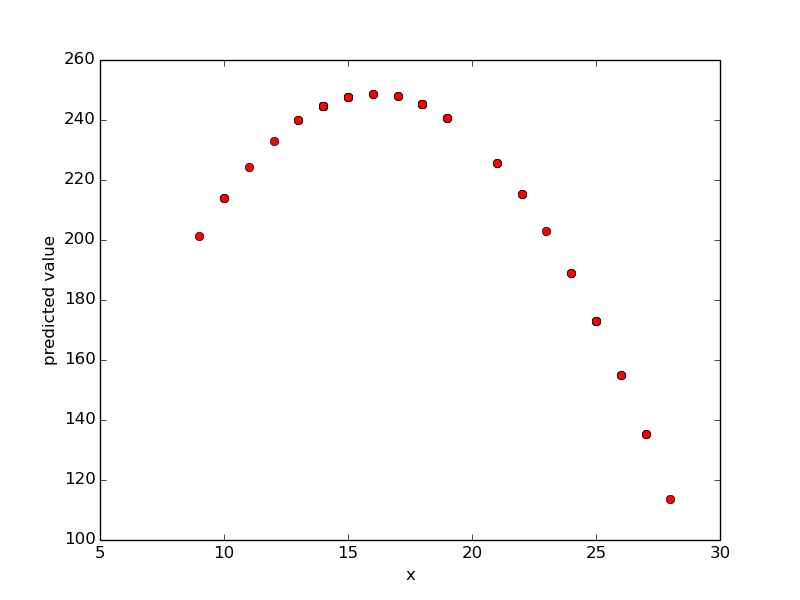
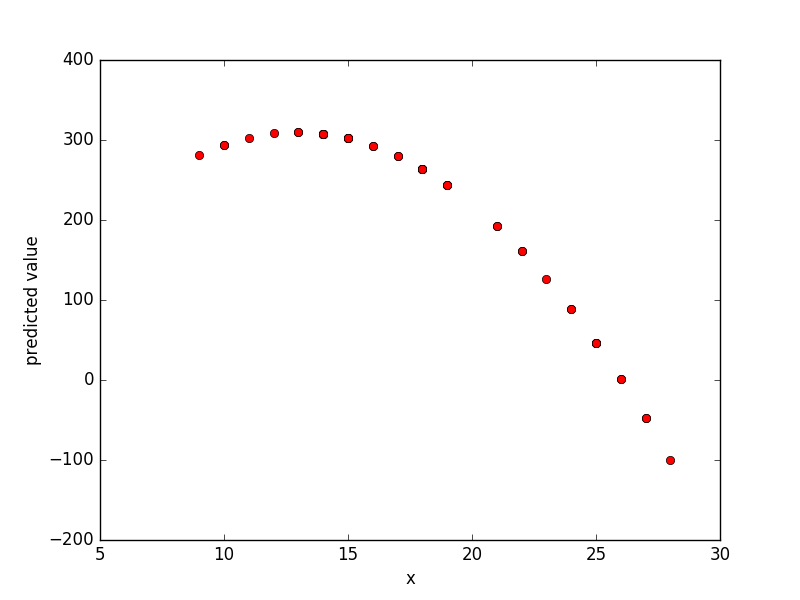
added some stuff in tex

diff --git a/abgaben/abgabe03/tex/abgabe03.tex b/abgaben/abgabe03/tex/abgabe03.tex
@@ -126,19 +126,26 @@
 
     \item 
         % TODO
-        TODO insert Task g)
+        Result:\\
+        \begin{center}
+            \includegraphics[scale = 0.52]{pictures/twodimprediction_0,0001_1800}\\
+            prediction using learning rate 0.0001 and 1800 epochs produced the best results with a cost of 3600.
+        \end{center}
+
 
     \item 
         % TODO
-        TODO insert Task h)
+        no solution
 
     \item 
         % TODO
-        TODO insert Task i)
+        no solution
 
 \end{enumerate}
 
 \subsection{Regularization}
+% TODO
+no solution
 
 
 \end{document}
